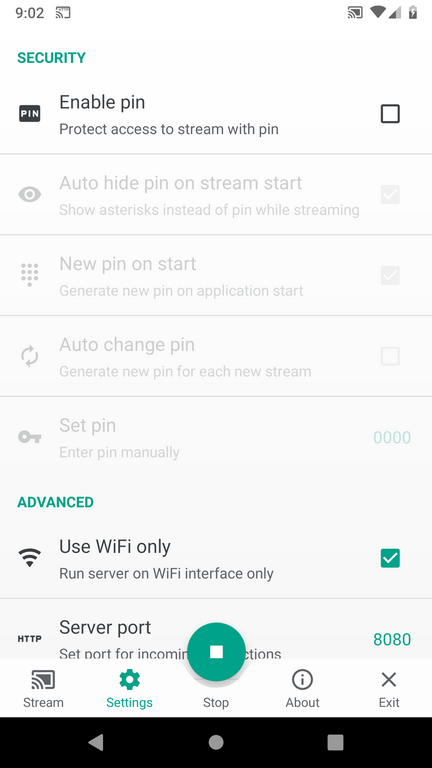
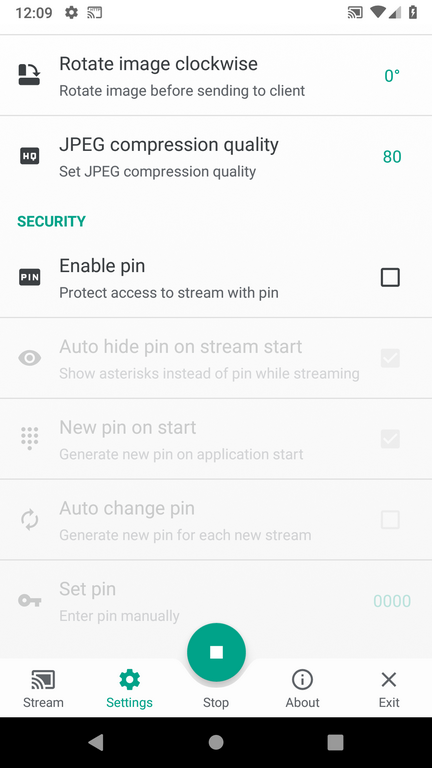
Update screenshots

diff --git a/README.md b/README.md
@@ -44,7 +44,9 @@ Application uses Android Cast feature and requires at least Android 5.0 to run.
 ![](screenshots/screenshot_5.png)&nbsp;
 ![](screenshots/screenshot_6.png)<br>
 ![](screenshots/screenshot_7.png)&nbsp;
-![](screenshots/screenshot_8.png)
+![](screenshots/screenshot_8.png)<br>
+![](screenshots/screenshot_9.png)&nbsp;
+![](screenshots/screenshot_10.png)
 
 ## Features and libraries
 
